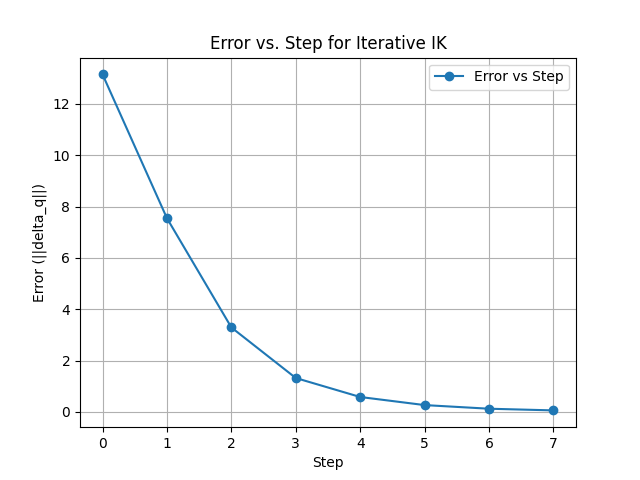
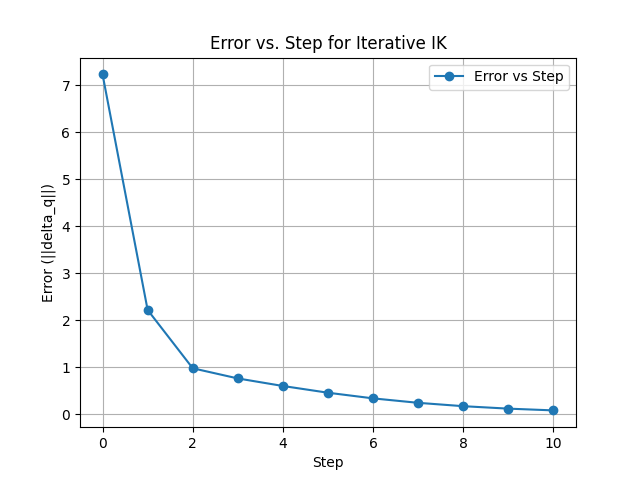
updates

diff --git a/final_project.py b/final_project.py
@@ -117,15 +117,26 @@ def numerical_jacobian(theta_vals, order=4):
 # find the best theta that achieves the same 
 # final position
 def optimize_theta(theta_vals,theta_past):
-    J = numerical_jacobian(theta_vals)
-    null = scipy.linalg.null_space(J)
-
     # Using span of vectors in nullspace retroactively determine a set of solution thets that would minimize magnitude delta theta move
     # MINI OPTIMIZATION PROBLEM
     # MINIMIZE THE FUNCTION OF 2 VARIABLES WHICH IS THE SPAN OF THE NULLSPACE MINUS THE PAST THETA VALS -> BEST
     # N1 and N2 are numeric not symbolic
     # mag_delta_theta_move = (theta_vals-theta_past).norm()
+
+    def penalize_illegal_angles(updated_theta):
+        penalty = 0 
+        minima, maxima = get_thumb_constraints()
+        
+        for i in range(len(updated_theta)):  # Iterate over theta components
+            if updated_theta[i] > maxima[i]:
+                penalty += (updated_theta[i] - maxima[i]) ** 2
+            elif updated_theta[i] < minima[i]:
+                penalty += (minima[i] - updated_theta[i]) ** 2
+        return penalty
   
+    J = numerical_jacobian(theta_vals)
+    null = scipy.linalg.null_space(J)
+
     # Objective function to minimize
     def objective(c):
         c1, c2 = c  # Coefficients
@@ -137,26 +148,17 @@ def optimize_theta(theta_vals,theta_past):
 
         # Add penalty terms for constraints
         constraint_penalty = 100  # Scaling factor for penalties
-        penalties = 0 
-        # is this just adding a numerical value to the objective function or is it minimizing with the constraint penalties as functions of theta?
 
-        minima, maxima = get_thumb_constraints()
-        
-        for i in range(len(updated_theta)):  # Iterate over theta components
-            if updated_theta[i] > maxima[i]:
-                penalties += constraint_penalty * (updated_theta[i] - maxima[i]) ** 2
-            elif updated_theta[i] < minima[i]:
-                penalties += constraint_penalty * (minima[i] - updated_theta[i]) ** 2
 
         # Total objective: core objective + penalties
-        return core_objective + penalties
+        return core_objective + (constraint_penalty*penalize_illegal_angles(updated_theta))
 
     # Initial guess for coefficients
     initial_guess = [0, 0]
 
     # Minimize the objective function
-    result = scipy.optimize.minimize(objective, initial_guess, method='L-BFGS-B', jac='2-point', options=dict(maxfun=10000))
-    s_opt, t_opt = result.x
+    optimal_nullspace_parameters = scipy.optimize.minimize(objective, initial_guess, method='L-BFGS-B', jac='2-point', options=dict(maxfun=10000))
+    s_opt, t_opt = optimal_nullspace_parameters.x
 
     # linear combination of nullspace vectors that minimizes delta_theta
     theta_opt = theta_vals + (s_opt * null[:, 0]) + (t_opt * null[:, 1])
